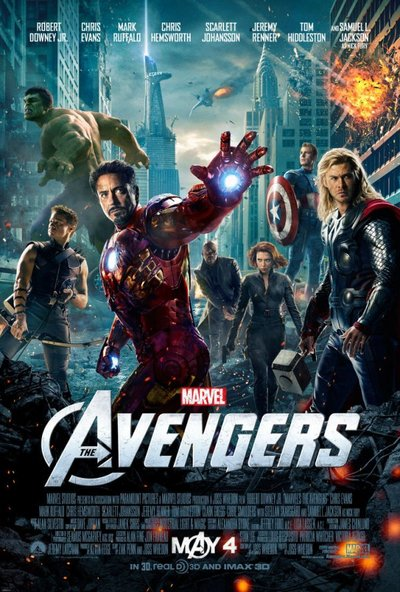
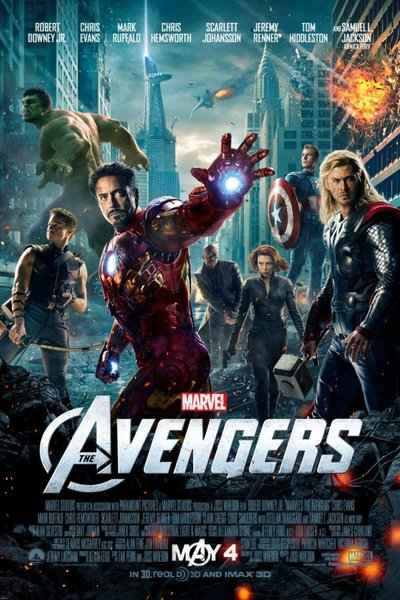
Added boostrap and styled

diff --git a/app/assets/stylesheets/application.css.scss b/app/assets/stylesheets/application.css.scss
@@ -13,3 +13,22 @@
  *= require_tree .
  *= require_self
  */
+
+@import "bootstrap-sprockets";
+@import "bootstrap";
+
+body {
+	background: #AA4847;
+}
+
+.review_title {
+	margin: 0 0 20px 0;
+}
+
+.reviews {
+	padding: 15px 0;
+	border-bottom: 1px solid #EAEAEA;
+	.star-rating {
+		padding-bottom: 8px;
+	}
+}

diff --git a/app/assets/javascripts/application.js b/app/assets/javascripts/application.js
@@ -12,5 +12,6 @@
 //
 //= require jquery
 //= require jquery_ujs
+//= require bootstrap-sprockets
 //= require turbolinks
 //= require_tree .

diff --git a/app/models/movie.rb b/app/models/movie.rb
@@ -1,6 +1,6 @@
 class Movie < ActiveRecord::Base
 	belongs_to :user
 
-	has_attached_file :image, styles: { medium: "400x600>" }
+	has_attached_file :image, styles: { medium: "400x600#" }
   validates_attachment_content_type :image, content_type: /\Aimage\/.*\Z/
 end
